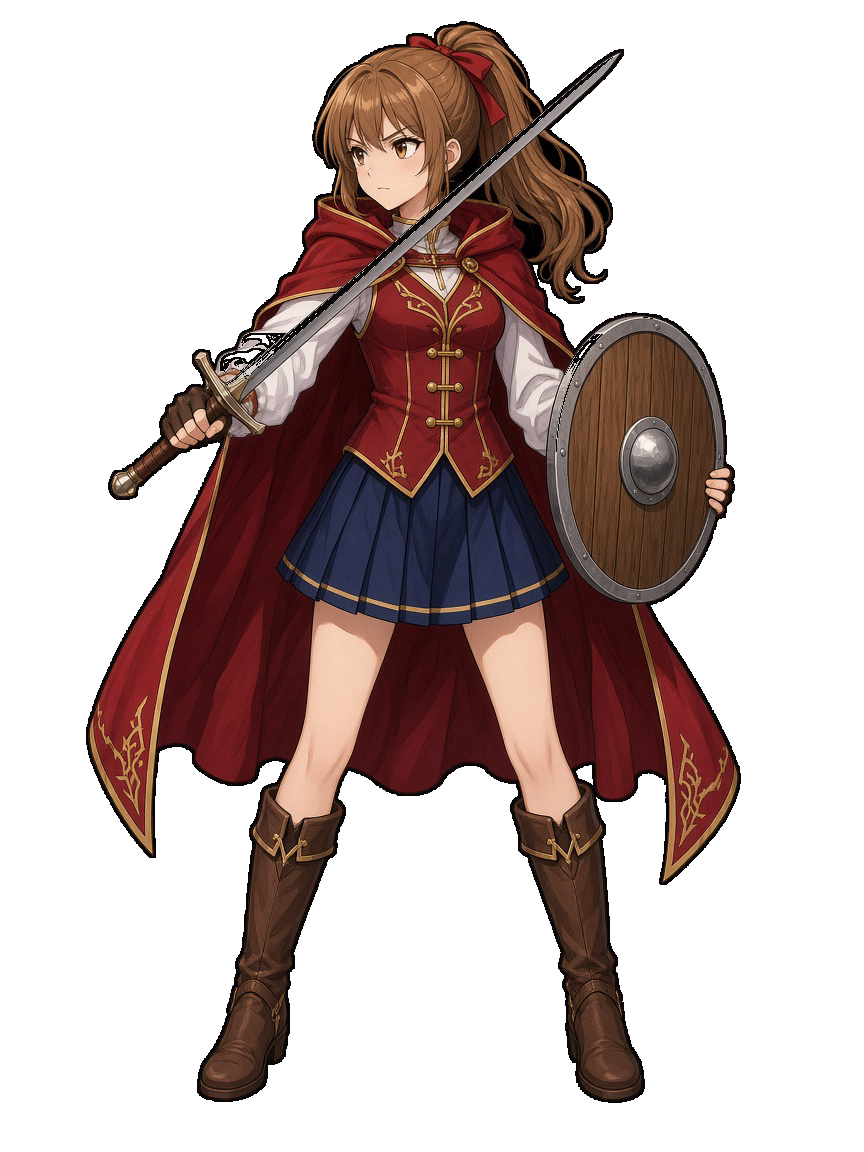
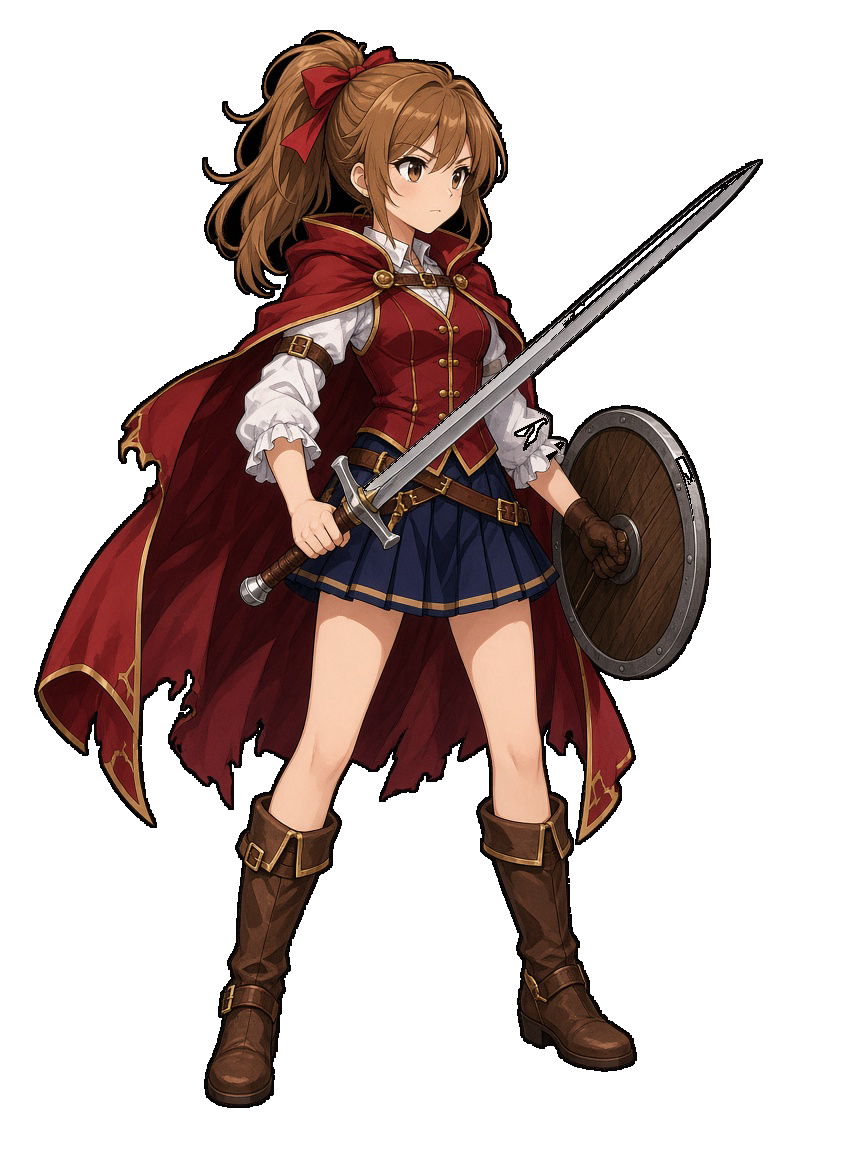
Redraw the warrior and mirror the deck at the lower left.

diff --git a/index.html b/index.html
@@ -137,6 +137,19 @@
       box-shadow: var(--panel-frame);
       color: var(--cream);
     }
+    .road-map h2 {
+      flex: 0 0 auto;
+      margin: 0 0 6px;
+      padding: 4px 0 6px;
+      font-family: "Yu Mincho", "YuMincho", "Hiragino Mincho ProN", "Noto Serif JP", serif;
+      font-size: 18px;
+      font-weight: 900;
+      letter-spacing: 0.28em;
+      text-indent: 0.28em;
+      text-align: center;
+      color: #fff3c4;
+      border-bottom: 1px solid rgba(228, 177, 90, 0.45);
+    }
     .road-map ol {
       list-style: none;
       margin: 0;
@@ -183,15 +196,33 @@
     }
     .road-node.boss { color: #ffb0a4; }
     .road-node.boss img { box-shadow: 0 0 0 2px #c43a32; }
-    .road-floor, .road-name {
+    .road-cap {
       position: absolute;
       z-index: 1;
-      left: 4px;
-      right: 4px;
-      text-shadow: 0 1px 2px #000, 0 0 6px #000;
+      left: 0;
+      right: 0;
+      bottom: 0;
+      display: flex;
+      align-items: baseline;
+      gap: 6px;
+      padding: 16px 6px 4px;
+      background: linear-gradient(180deg, transparent, rgba(8, 6, 4, 0.92) 42%);
     }
-    .road-floor { top: 4px; letter-spacing: 0.02em; }
-    .road-name { bottom: 4px; overflow: hidden; white-space: nowrap; text-overflow: ellipsis; }
+    .road-floor {
+      flex: 0 0 auto;
+      color: #ffe7a4;
+      font-size: 16px;
+      font-weight: 900;
+      letter-spacing: 0.02em;
+    }
+    .road-name {
+      min-width: 0;
+      overflow: hidden;
+      color: #fff6e4;
+      font-size: 14px;
+      white-space: nowrap;
+      text-overflow: ellipsis;
+    }
     .side-rail .battle-log { flex: 1 1 auto; height: auto; }
     .hud-top {
       display: grid;
@@ -289,7 +320,27 @@
     }
     .stage .foe-piles,
     .stage .foe-pile,
-    .stage .foe-peek { pointer-events: auto; }
+    .stage .foe-peek,
+    .stage .ally-piles,
+    .stage .ally-piles .pile { pointer-events: auto; }
+    .ally-piles {
+      position: absolute;
+      left: 8px;
+      bottom: 8px;
+      z-index: 7;
+      display: flex;
+      align-items: flex-end;
+      gap: 8px;
+    }
+    .ally-piles .pile { width: 128px; height: auto; }
+    .ally-piles .pile-card {
+      width: 118px;
+      height: auto;
+      max-height: none;
+      aspect-ratio: var(--card-ratio);
+    }
+    .ally-piles .pile-count { font-size: 44px; }
+    .ally-piles .pile-label { font-size: 16px; letter-spacing: 0.08em; }
     /* 自分のステータスは戦闘画面の左上、敵は右上 */
     .enemy-field {
       position: relative;
@@ -2544,33 +2595,37 @@
       max-height: none;
       min-height: 0;
     }
-    /* マナは山札の上の空き。山札の絵にはかぶせない。持ち越しは白い炎 */
-    .deck-column .mana-row {
+    .handbar .mana-dock {
+      flex: 0 0 auto;
+      align-self: stretch;
+      display: flex;
+      align-items: flex-end;
+      justify-content: center;
+      min-width: 168px;
+      height: 100%;
+    }
+    .handbar .mana-row {
       position: static;
-      z-index: 4;
       transform: none;
       display: flex;
       flex-flow: row nowrap;
       align-items: flex-end;
       justify-content: center;
-      gap: 6px;
+      gap: 8px;
       width: 100%;
-      height: 52px;
-      flex: 0 0 52px;
+      height: 100%;
+      max-height: 148px;
       margin: 0;
-      overflow: visible;
       pointer-events: none;
     }
-    .mana-orb {
+    .handbar .mana-orb {
       position: relative;
-      width: 36px;
-      height: 52px;
-      max-height: 52px;
+      width: 58px;
+      height: 100%;
+      max-height: 148px;
       flex: 0 0 auto;
       margin: 0;
       border: 0;
-      border-radius: 0;
-      overflow: visible;
       background: none;
       box-shadow: none;
     }
@@ -2614,13 +2669,14 @@
     .pile { width: auto; height: 100%; flex: 0 0 auto; min-width: 0; max-width: none; display: flex; flex-direction: column; align-items: center; justify-content: flex-end; gap: 4px; }
     .handbar .end {
       align-self: center;
-      width: 132px;
-      height: 132px;
-      min-width: 132px;
-      min-height: 132px;
-      max-width: 132px;
-      max-height: 132px;
-      margin: 0 8px;
+      width: 148px;
+      height: 52px;
+      min-width: 148px;
+      min-height: 52px;
+      max-width: none;
+      max-height: 52px;
+      margin: 0 8px 0 0;
+      border-radius: 999px;
     }
     .pile-card {
       position: relative;
@@ -3668,25 +3724,25 @@
     .card .card-fit.r3 .rarity { color: #9a6a12; }
     .card .card-fit.rboss .rarity { color: #9a1f14; }
     .end {
-      width: 132px;
-      height: 132px;
-      min-width: 132px;
-      min-height: 132px;
-      max-width: 132px;
-      max-height: 132px;
-      aspect-ratio: 1;
+      width: 148px;
+      height: 52px;
+      min-width: 148px;
+      min-height: 52px;
+      max-width: none;
+      max-height: 52px;
+      aspect-ratio: auto;
       flex: none;
       align-self: center;
       margin: 0 12px;
-      border-radius: 50%;
-      border: 4px solid var(--gold);
-      background: rgba(18, 14, 12, 0.72);
-      color: var(--gold);
+      border-radius: 999px;
+      border: 2px solid #e4c27a;
+      background: #1c120c;
+      color: #ffe7a4;
       font-family: "Yu Mincho", "YuMincho", "Hiragino Mincho ProN", "Noto Serif JP", serif;
-      font-size: 18px;
-      font-weight: 800;
-      letter-spacing: 0.06em;
-      line-height: 1.15;
+      font-size: 16px;
+      font-weight: 900;
+      letter-spacing: 0.22em;
+      line-height: 1;
       cursor: pointer;
       box-shadow: inset 0 0 0 1px #6b4518, 0 8px 16px rgba(0, 0, 0, 0.4);
     }
@@ -5717,7 +5773,7 @@
       .sprite .eye { top: 30px; width: 13px; height: 13px; }
       .sprite .eye.l { left: 28px; }
       .sprite .eye.r { right: 28px; }
-      .end { width: 108px; height: 108px; min-width: 108px; min-height: 108px; max-width: 108px; max-height: 108px; font-size: 15px; border-radius: 50%; }
+      .end { width: 132px; height: 44px; min-width: 132px; min-height: 44px; max-height: 44px; font-size: 14px; border-radius: 999px; }
       .mana-orb { width: 36px; height: 100%; max-height: 48px; margin: 0; }
       .vitals .meter.hp, .vitals .hp-line, .vitals .shield-row { height: 36px; }
       .vitals .hp-line b, .vitals .shield-line b { font-size: 22px; }
@@ -5802,17 +5858,17 @@
     html.phone .handbar { padding: 4px 4px 6px; gap: 4px; }
     html.phone .handbar .end,
     html.phone .end {
-      width: 72px;
-      height: 72px;
-      min-width: 72px;
-      min-height: 72px;
-      max-width: 72px;
-      max-height: 72px;
+      width: 108px;
+      height: 40px;
+      min-width: 108px;
+      min-height: 40px;
+      max-width: 108px;
+      max-height: 40px;
       margin: 0 2px 6px 0;
-      font-size: 11px;
-      letter-spacing: 0.04em;
-      border-radius: 50%;
-      border-width: 3px;
+      font-size: 12px;
+      letter-spacing: 0.08em;
+      border-radius: 999px;
+      border-width: 2px;
     }
     html.phone .mana-orb { width: 30px; height: 100%; max-height: 42px; margin: 0; }
     /* iPhone横画面。高さがないので、上は1行、下は手札 */
@@ -5858,14 +5914,14 @@
     html.phone.land .battle-plate .shield-badge { width: 36px; height: 48px; }
     html.phone.land .handbar .end,
     html.phone.land .end {
-      width: 64px;
-      height: 64px;
-      min-width: 64px;
-      min-height: 64px;
-      max-width: 64px;
-      max-height: 64px;
-      font-size: 10px;
-      border-radius: 50%;
+      width: 96px;
+      height: 36px;
+      min-width: 96px;
+      min-height: 36px;
+      max-width: 96px;
+      max-height: 36px;
+      font-size: 11px;
+      border-radius: 999px;
     }
     html.phone.land .battle-log {
       left: 64px;
@@ -6147,7 +6203,7 @@
         stand: "girl-front.png?v=11",
         chibi: "job-girl.png?v=11",
         action: "girl-action.jpg?v=5",
-        battle: "girl-battle.png?v=30",
+        battle: "girl-battle.png?v=31",
         battleRatio: "3 / 4",
         defeat: "girl-defeat.png?v=10",
         victory: "girl-victory.png?v=13",
@@ -6547,10 +6603,10 @@
         const icon = face.src
           ? `<img src="${face.src}" alt="">`
           : `<i>${esc(face.mark || "")}</i>`;
-        return `<li class="road-node ${state}${face.boss ? " boss" : ""}"><span class="road-floor">${floor}</span>${icon}<span class="road-name">${esc(face.label || "")}</span></li>`;
+        return `<li class="road-node ${state}${face.boss ? " boss" : ""}">${icon}<span class="road-cap"><span class="road-floor">${floor}</span><span class="road-name">${esc(face.label || "")}</span></span></li>`;
       }).join("");
       const pad = battleIndex === 0 ? `<li class="road-node pad" aria-hidden="true"></li>` : "";
-      return `<section class="road-map" aria-label="マップ"><ol>${rows}${pad}</ol></section>`;
+      return `<section class="road-map" aria-label="マップ"><h2>マップ</h2><ol>${rows}${pad}</ol></section>`;
     }
 
     function placeRoad() {
@@ -9785,7 +9841,7 @@
             <h3>女の戦士</h3>
             <div class="ref-grid pose-grid">
               ${sheetFig("girl-front.png?v=11", "キャラデザ", "cut-ref")}
-              ${sheetFig("girl-battle.png?v=30", "戦闘（縁取り）", "cut-ref")}
+              ${sheetFig("girl-battle.png?v=31", "戦闘（縁取り）", "cut-ref")}
               ${sheetFig("girl-battle-prev.png?v=1", "戦闘（前）", "cut-ref")}
               ${sheetFig("girl-battle-next.png?v=1", "戦闘（切り抜き直し）", "cut-ref")}
               ${sheetFig("girl-battle-next2.png?v=1", "戦闘（切り抜き直し2）", "cut-ref")}
@@ -11482,6 +11538,10 @@
             </div>
             ${plateMarkup("foe-plate", "enemy", enemy.name, "", shownEnemy(), enemy.maxHp, enemy.block, { attrs: ` data-rank="${esc(enemyNow().rank || "普通")}"`, badges: statusChips(enemy), stars: foeStarText(), atk: enemy.atk || 0, def: enemy.def || 0, spd: 1 })}
             <div class="duel-side ally">
+              <div class="ally-piles">
+                ${pileMarkup("deck", deck.length)}
+                ${pileMarkup("discard", discard.length)}
+              </div>
               ${heroShoulder("", Boolean(hurtNow && hitNow && hitNow.side === "player"), hitPow, guardNow, fatalNow, hitNow && hitNow.kind)}
             </div>
             <div class="duel-mid">
@@ -11507,15 +11567,7 @@
           </div>
           </div>
           <div class="handbar">
-              <div class="pile-pair">
-                <div class="deck-column">
-                  ${pips()}
-                  <div class="deck-stack">
-                    ${pileMarkup("deck", deck.length)}
-                  </div>
-                </div>
-                ${pileMarkup("discard", discard.length)}
-              </div>
+              <div class="mana-dock">${pips()}</div>
               <div class="hand${dealNow ? " deal-pending" : ""}">${cards}</div>
               ${endButtonMarkup()}
             </div>
